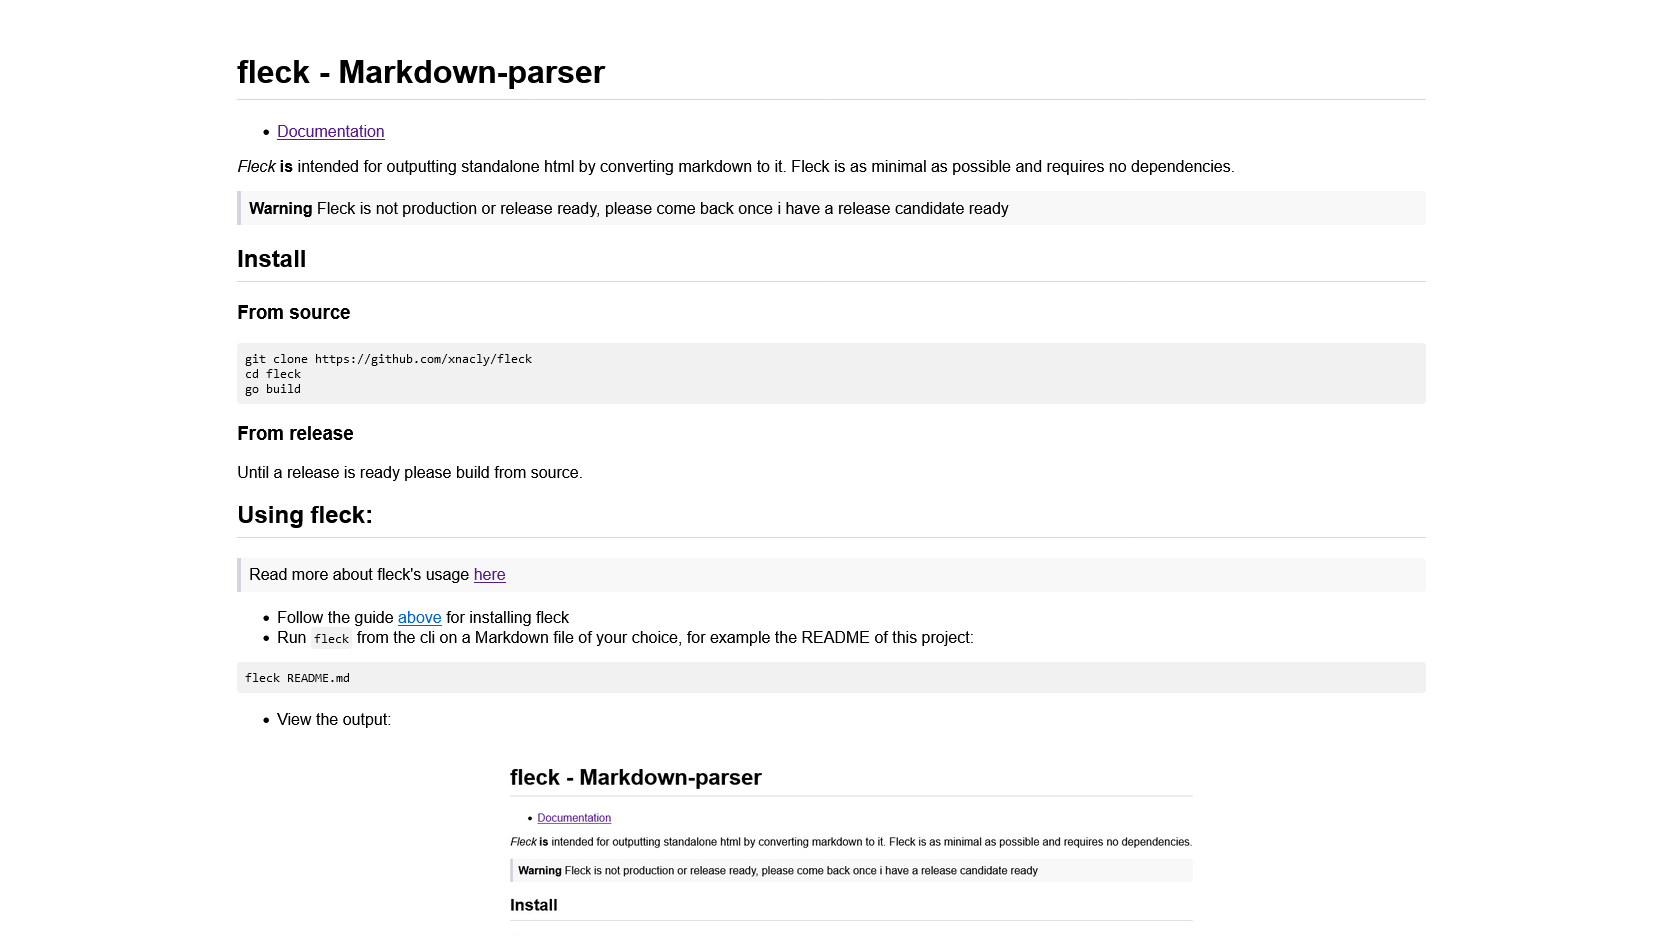
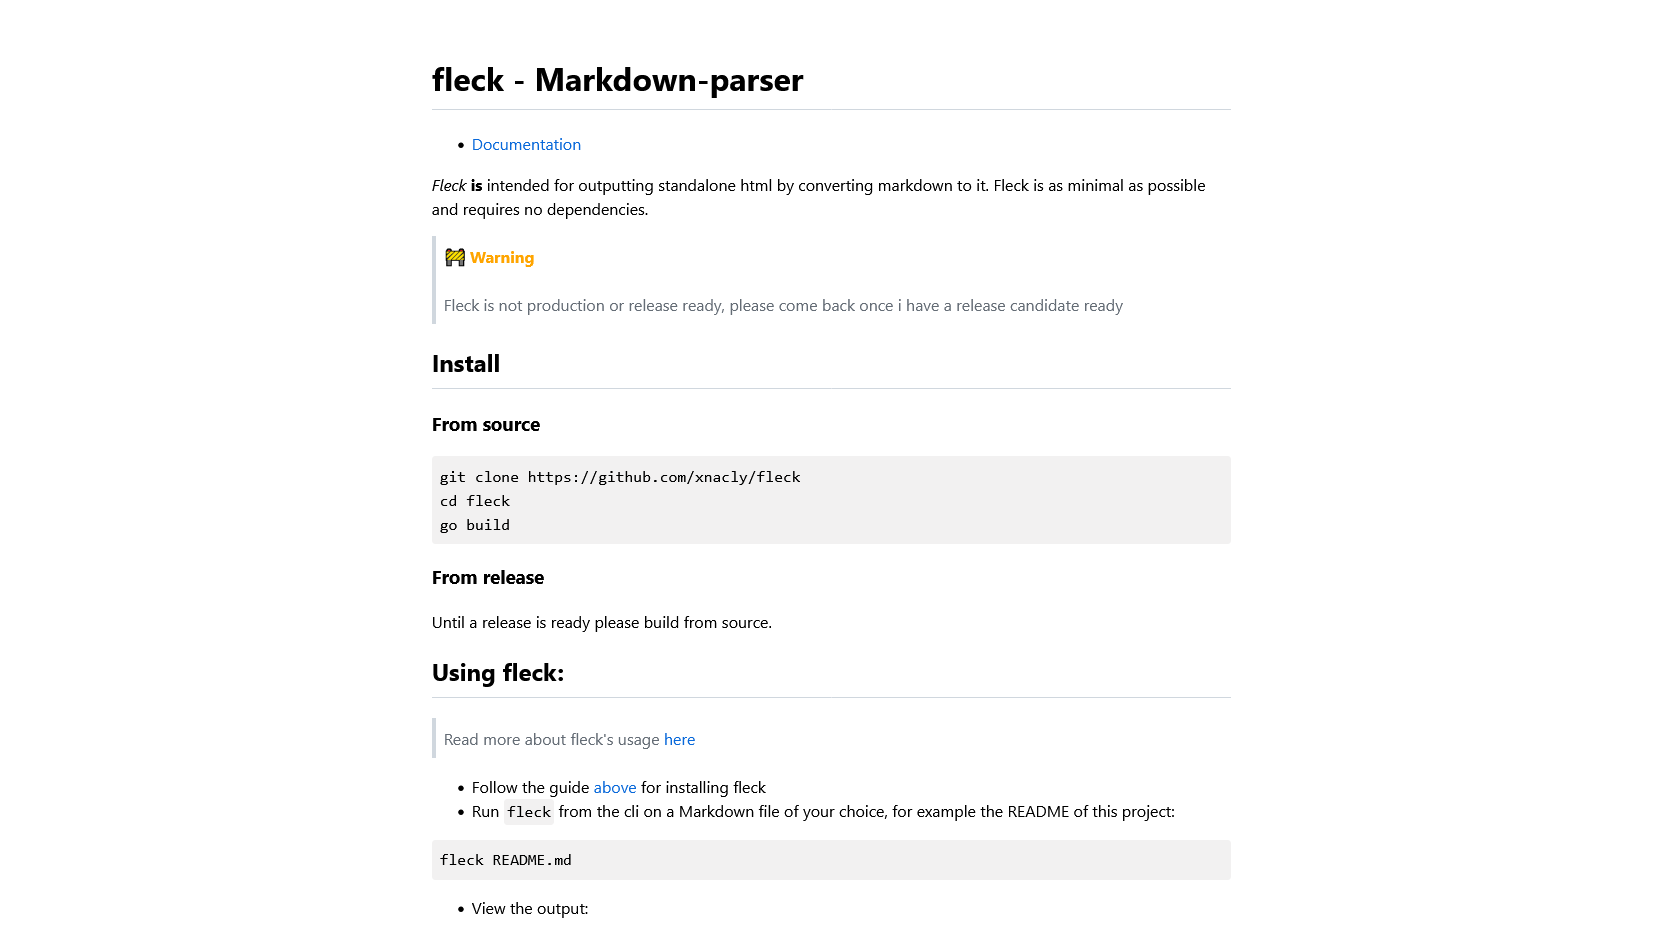
doc: new styling, blockquotes, feature docs

diff --git a/doc/Features.md b/doc/Features.md
@@ -1,5 +1,25 @@
 # Features
 
+## Example
+
+View the source for the `test.md` file [here](../test.md).
+
+Compiled using fleck:
+
+```sh
+fleck -preprocessor-enabled -toc -toc-full -shell-macro-enabled test.md
+# 2023/04/19 09:31:04 warn: 'shell-macro-enabled' flag specified, this can harm your operating system and make it vulnerable for attack, proceed at your own digression
+# 2023/04/19 09:31:04 info: preprocessor enabled, starting...
+# 2023/04/19 09:31:04 warn: found @shell macro: '@shell{whoami}', executing 'whoami'
+# 2023/04/19 09:31:04 info: executed 'whoami' command
+# 2023/04/19 09:31:04 info: preprocessor finished, took 6.092121ms
+# 2023/04/19 09:31:04 info: compiled 'test.md.fleck', took: 10.278704ms
+```
+
+This spits out the following:
+
+![full_readme](./assets/full_readme.png)
+
 ## Markdown
 
 Fleck implements the basic markdown features everyone needs, while extending markdown with the fleck dialect, which introduces several macros.
@@ -15,7 +35,31 @@ Fleck implements the basic markdown features everyone needs, while extending mar
 - [x] Image
 - [x] Link
 - [x] horizontal ruler
-- [ ] Table
+
+### Extra features
+
+#### Blockquotes:
+
+Fleck supports blockquotes with titles. To specify a title for a blockquote, format it as follows:
+
+```markdown
+> **Title**
+>
+> text
+```
+
+Fleck extracts the `Title` in the first line of the blockquote between `**` and `**`.
+After that all supported titles are colored and prefixed with a matching emoji.
+
+Currently supported are:
+
+- info
+- warning
+- danger
+
+Example:
+
+![blockquotes_fleck](./assets/blockquote.png)
 
 ## Fleck's features
 
